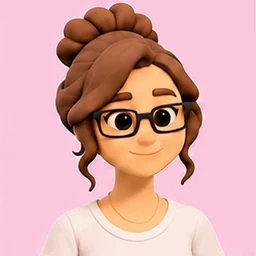
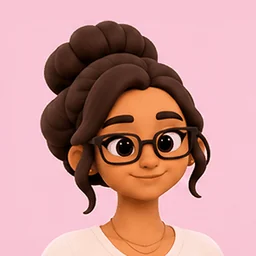
Kiru colour redo: out2 idle/wave/walk in kiru-v2 colours
Claude-Session: https://claude.ai/code/session_01M9MLSzTgGmRpDx4quWz9qx

diff --git a/design/gen/status.md b/design/gen/status.md
@@ -140,9 +140,9 @@ Generated in ChatGPT, checked frame by frame, converted to 256x256 animated WebP
 | kiru/work3/idle | done | 1 | colour redo Nov 19 (sprite sheet, kiru-v2 colours): blink frames 4-9; stable framing |
 | kiru/work3/wave | done | 1 | colour redo Nov 19 (sprite sheet, kiru-v2 colours): same hand waves at the left edge (partly cut in frames 6-9); one blink |
 | kiru/work3/coffee | done | 1 | colour redo Nov 19 (sprite sheet, kiru-v2 colours): ONE cream mug, same hand (frames 2-10); frames 8-15 sat 4-7 px lower on the sheet, aligned to frame 0 |
-| kiru/out2/idle | done | 0 | Kiru v2 look |
-| kiru/out2/wave | done | 0 | Kiru v2 look; the blink reads as a wink (frame 5) |
-| kiru/out2/walk | done | 0 | Kiru v2 look; bag strap on the same shoulder throughout; frames 4-15 sat 4-7 px higher than frame 0 (loop pop) - re-aligned and cropped |
+| kiru/out2/idle | done | 1 | colour redo Nov 19 (sprite sheet, kiru-v2 colours): white top (olive trousers below the frame); blink frames 3-7; stable framing |
+| kiru/out2/wave | done | 1 | colour redo Nov 19 (sprite sheet, kiru-v2 colours): same hand waves on the left; small white motion lines in frames 4-7; blink frames 9-10 |
+| kiru/out2/walk | done | 1 | colour redo Nov 19 (sprite sheet, kiru-v2 colours): walking bob and sway (up to 11 px, sheet as drawn); ONE bag strap on the same shoulder in every frame; two blinks |
 | kiru/out3/idle | done | 0 | Kiru v2 look |
 | kiru/out3/wave | done | 0 | Kiru v2 look |
 | kiru/out3/laugh | done | 0 | Kiru v2 look; head tilts back with the laugh (up to 12 px) |
@@ -204,9 +204,9 @@ Reference measurements (tools: /tmp/tools/colour.py; median Lab over sampled fra
 | kiru/home2/sleep | done | 0.9 | 2.4 | asleep on a pillow with glasses on, pink blanket; round bubbles frames 5-11 |
 | kiru/home2/tv | done | 3.0 | 2.4 | sofa behind; ONE remote, same hand (frames 0-6, then lowered below the frame); small white click lines in frame 4; chuckle frames 8-12 |
 | kiru/home2/wave | done | 1.7 | 1.8 | same hand waves on the left; small white motion lines by the hand in frames 4-6; blink frames 9-10 |
-| kiru/out2/idle | pending |  |  | old: skin dE 14.9 hair dE 17.7 |
-| kiru/out2/walk | pending |  |  | old: skin dE 15.5 hair dE 17.0 |
-| kiru/out2/wave | pending |  |  | old: skin dE 15.4 hair dE 22.0 |
+| kiru/out2/idle | done | 1.4 | 1.1 | white top (olive trousers below the frame); blink frames 3-7; stable framing |
+| kiru/out2/walk | done | 2.6 | 3.0 | walking bob and sway (up to 11 px, sheet as drawn); ONE bag strap on the same shoulder in every frame; two blinks |
+| kiru/out2/wave | done | 2.5 | 3.6 | same hand waves on the left; small white motion lines in frames 4-7; blink frames 9-10 |
 | kiru/out3/idle | pending |  |  | old: skin dE 14.9 hair dE 17.4 |
 | kiru/out3/laugh | pending |  |  | old: skin dE 15.1 hair dE 18.6 |
 | kiru/out3/wave | pending |  |  | old: skin dE 15.7 hair dE 18.1 |
